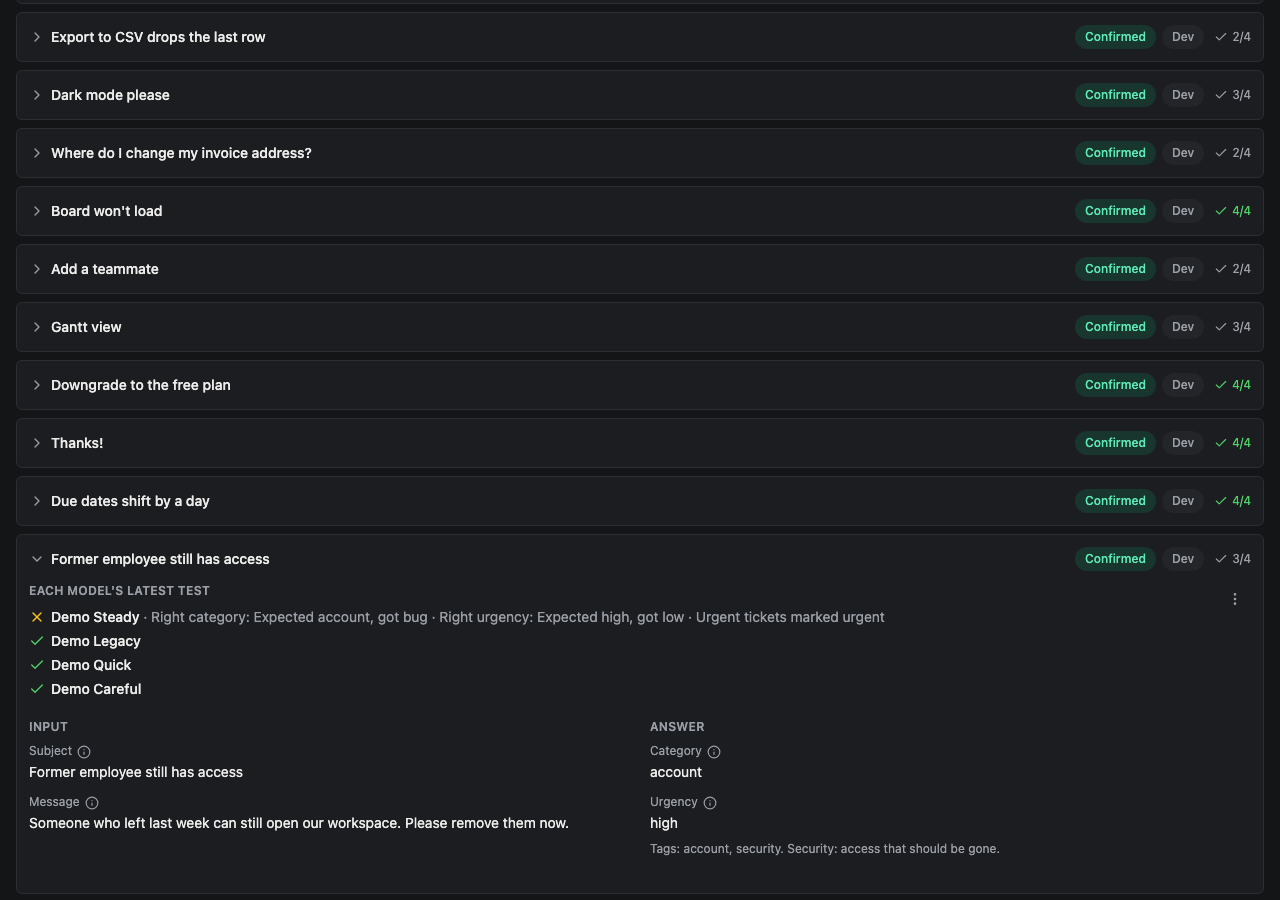
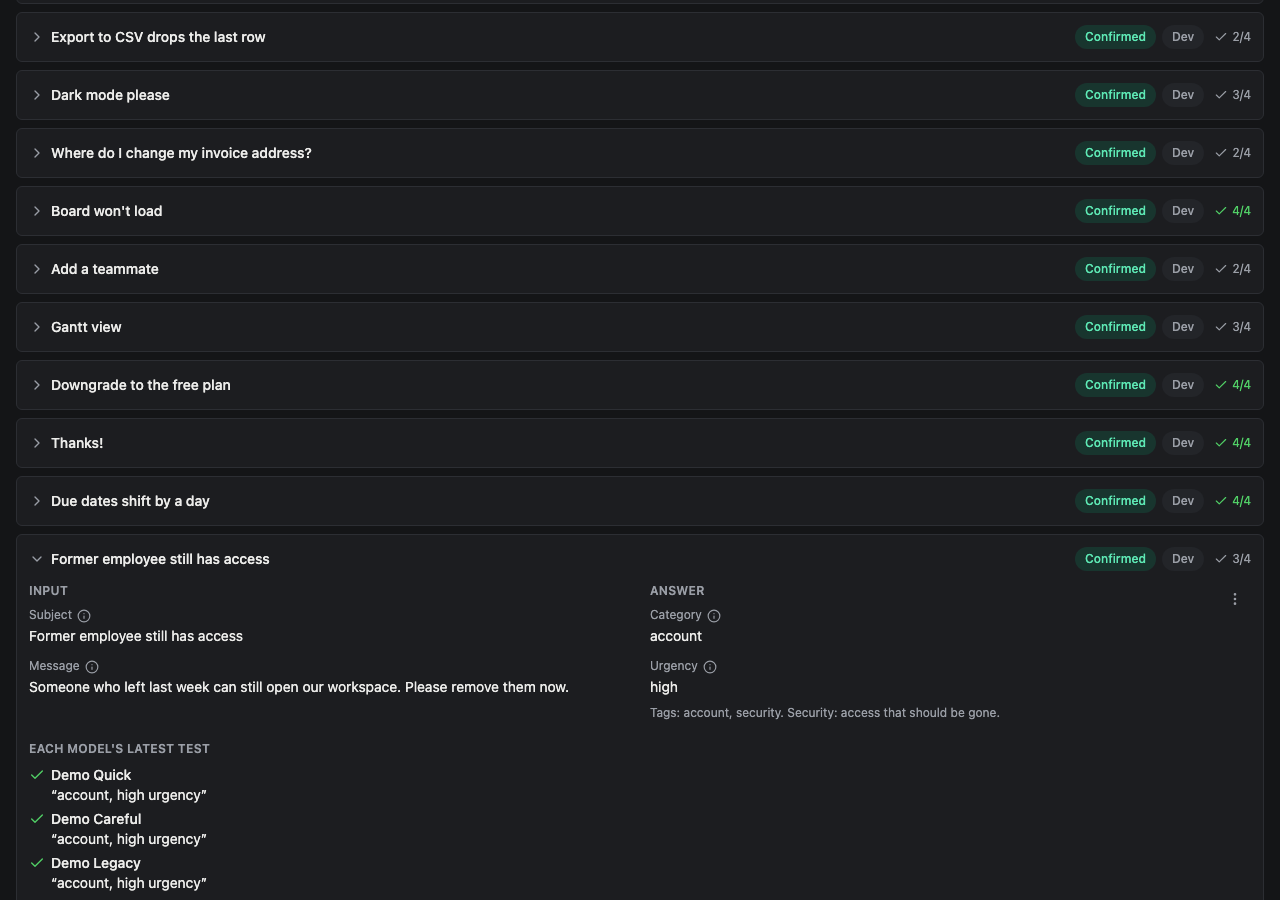
Each model's answer beside its result; green refresh button
Suite.outputLine(output) gives one model's answer as a short line,
shown under that model's latest test in the answer key, so a person can
compare what models wrote with the input and the answer. Model results
sit after the answer in both layouts. The icon button (the answer key's
refresh) has Add a case's green outline. Part of 0.17.1.

Changed region(s): [[0.3438, 0.6533, 0.7812, 0.9644], [0.0312, 0.8089, 0.4375, 0.9956], [0.0312, 0.6533, 0.4375, 0.7778]]

diff --git a/packages/core/src/react/AnswerKey.tsx b/packages/core/src/react/AnswerKey.tsx
@@ -258,7 +258,7 @@ function CaseItem({
   c: CaseRecord;
   results: {
     model: string;
-    output: { scores: unknown; error: string | null };
+    output: { scores: unknown; error: string | null; output?: unknown };
   }[];
 }) {
   const answer =
@@ -310,10 +310,72 @@ function CaseItem({
         ? "no model's latest test agrees with this answer"
         : `models split: ${right} of ${results.length} agree with this answer`,
     );
+  // What each model wrote, as the suite's short line (`outputLine`).
+  const lineOf = (output: unknown): string | null => {
+    try {
+      return suite.outputLine?.(output) ?? null;
+    } catch {
+      return null;
+    }
+  };
   const inputFallback = suite.describe ? (
     <pre className="whitespace-pre-wrap text-xs">{suite.describe(input)}</pre>
   ) : (
     <ReadableValue value={c.input} marks={marks} />
+  );
+
+  // How each model's latest test did, with what it wrote: after the
+  // answer, so a person reads the answer first.
+  const modelResults = results.length > 0 && (
+    <section className="space-y-2">
+      <h4 className="text-xs font-semibold uppercase tracking-wide text-muted">
+        Each model's latest test
+      </h4>
+      <ul className="space-y-1">
+        {results.map(({ model, output }) => {
+          const checks = (output.scores as CheckResult[] | null) ?? null;
+          const failed = checks?.filter((x) => x.pass === false) ?? [];
+          return (
+            <li key={model} className="flex items-start gap-1.5">
+              {output.error ? (
+                <CircleAlert
+                  aria-label="No answer"
+                  className="mt-0.5 h-4 w-4 shrink-0 text-bad"
+                />
+              ) : failed.length ? (
+                <X
+                  aria-label="Wrong"
+                  className="mt-0.5 h-4 w-4 shrink-0 text-warn"
+                />
+              ) : (
+                <Check
+                  aria-label="Right"
+                  className="mt-0.5 h-4 w-4 shrink-0 text-good"
+                />
+              )}
+              <span>
+                <span className="font-medium">{model}</span>
+                {output.error && (
+                  <span className="text-muted">: {output.error}</span>
+                )}
+                {failed.map((x) => (
+                  <span key={x.key} className="text-muted">
+                    {" "}
+                    · {label(x.key)}
+                    {x.note ? `: ${x.note}` : ""}
+                  </span>
+                ))}
+                {!output.error && lineOf(output.output) && (
+                  <span className="readable block">
+                    &ldquo;{lineOf(output.output)}&rdquo;
+                  </span>
+                )}
+              </span>
+            </li>
+          );
+        })}
+      </ul>
+    </section>
   );
 
   return (
@@ -453,53 +515,7 @@ function CaseItem({
           </section>
         )}
 
-        {results.length > 0 && (
-          <section className="space-y-2">
-            <h4 className="text-xs font-semibold uppercase tracking-wide text-muted">
-              Each model's latest test
-            </h4>
-            <ul className="space-y-1">
-              {results.map(({ model, output }) => {
-                const checks = (output.scores as CheckResult[] | null) ?? null;
-                const failed = checks?.filter((x) => x.pass === false) ?? [];
-                return (
-                  <li key={model} className="flex items-start gap-1.5">
-                    {output.error ? (
-                      <CircleAlert
-                        aria-label="No answer"
-                        className="mt-0.5 h-4 w-4 shrink-0 text-bad"
-                      />
-                    ) : failed.length ? (
-                      <X
-                        aria-label="Wrong"
-                        className="mt-0.5 h-4 w-4 shrink-0 text-warn"
-                      />
-                    ) : (
-                      <Check
-                        aria-label="Right"
-                        className="mt-0.5 h-4 w-4 shrink-0 text-good"
-                      />
-                    )}
-                    <span>
-                      <span className="font-medium">{model}</span>
-                      {output.error && (
-                        <span className="text-muted">: {output.error}</span>
-                      )}
-                      {failed.map((x) => (
-                        <span key={x.key} className="text-muted">
-                          {" "}
-                          · {label(x.key)}
-                          {x.note ? `: ${x.note}` : ""}
-                        </span>
-                      ))}
-                    </span>
-                  </li>
-                );
-              })}
-            </ul>
-          </section>
-        )}
-
+        {checking && modelResults}
         {checking ? (
           <section className="space-y-2">
             <h4 className="text-xs font-semibold uppercase tracking-wide text-muted">
@@ -564,6 +580,7 @@ function CaseItem({
                 )}
               </section>
             </div>
+            {modelResults}
             {!readOnly && (
               <CaseMenu
                 suite={suite.key}

diff --git a/packages/core/src/types.ts b/packages/core/src/types.ts
@@ -299,6 +299,17 @@ export type Suite<Input, Output, Label> = {
    * @param answer - The answer being checked, or null without one.
    */
   lookAt?(input: Input, answer: Label | null): LookAt[];
+  /**
+   * One model's answer as a short line, shown beside that model's latest
+   * test in the answer key ("Get a full-time admin job in local
+   * government", or "Left as typed"), so a person can compare what
+   * models wrote with the input and the answer. Shown below the answer,
+   * so a person reads the answer first. For people only.
+   *
+   * @param output - What the model returned, as stored.
+   * @returns The line, or null to show none for this output.
+   */
+  outputLine?(output: Output): string | null;
 };
 
 /** One thing to look at when checking an answer (`Suite.lookAt`). */

diff --git a/examples/next/e2e/evals.spec.ts b/examples/next/e2e/evals.spec.ts
@@ -65,6 +65,17 @@ test("testing a model fills in its score", async ({ page }) => {
   await expect(
     page.getByRole("menuitem", { name: /^Test again/ }),
   ).toContainText(/free, all \d+ reused/);
+  await page.keyboard.press("Escape");
+
+  // In the answer key, each model's answer shows beside its result.
+  const kase = page
+    .locator("details")
+    .filter({ hasText: "Former employee still has access" })
+    .first();
+  await kase.locator("summary").first().click();
+  await expect(
+    kase.getByText(/^“\w[\w ]*, (low|normal|high) urgency”$/).first(),
+  ).toBeVisible();
 });
 
 test("the board marks the live model and a retiring one with chips", async ({

diff --git a/packages/core/src/react/pieces.tsx b/packages/core/src/react/pieces.tsx
@@ -431,7 +431,7 @@ export function IconSubmit(props: IconSubmitProps) {
       type="submit"
       aria-label={props.label}
       disabled={pending}
-      className="inline-flex h-8 w-8 items-center justify-center rounded-md border border-line bg-card text-ink hover:bg-tint disabled:opacity-60"
+      className={`inline-flex h-8 w-8 items-center justify-center rounded-md disabled:opacity-60 ${QUIET_BUTTON}`}
     >
       {pending ? <Spinner /> : props.icon}
     </button>

diff --git a/examples/next/lib/suites/ticketTriage.ts b/examples/next/lib/suites/ticketTriage.ts
@@ -407,6 +407,8 @@ export const ticketTriage: Suite<Input, Output, Label> = {
   },
   title: (i) => i.subject,
   describe: (i) => `${i.subject}\n\n${i.body}`,
+  // Each model's answer, beside its result in the answer key.
+  outputLine: (o) => `${o.category.replace(/_/g, " ")}, ${o.urgency} urgency`,
   labelHelp:
     "category: billing, account, bug, feature_request, or other. urgency: low, normal, or high.",
   answerGuide: {

diff --git a/docs/answer-key.md b/docs/answer-key.md
@@ -90,9 +90,18 @@ it appears in the input. When models' latest tests disagree with the
 answer, the list says so on its own: that's the surest sign a case needs
 a closer look.
 
-Pick these by rule from the case (a dealbreaker beside what it rules
+Pick the look-at notes by rule from the case (a dealbreaker beside what it rules
 on), never from the drafted answer's own reasoning: that steers a person
 toward agreeing with the draft, which defeats the point of checking it.
+
+A suite's `outputLine` shows what each model wrote, beside its latest
+test, below the answer: "Get a full-time admin job in local
+government", or "Left as typed". It makes an answer easy to check
+against something concrete:
+
+```ts
+outputLine: (o) => o.headline ?? "Left as typed",
+```
 
 ![A drafted case open in the answer key: the ticket, the model's proposed category and urgency marked pending, and a button to confirm the answer.](screenshots/confirm-light.png "A drafted answer waiting for a person.")
 

diff --git a/CHANGELOG.md b/CHANGELOG.md
@@ -7,6 +7,17 @@ version may change an interface, and its entry says how to update.
 
 ## 0.17.1 - 2026-11-17
 
+### Added
+
+- `Suite.outputLine(output)`: one model's answer as a short line, shown
+  beside that model's latest test in the answer key, so a person can
+  compare what models wrote with the input and the answer.
+
+### Changed
+
+- The answer key's refresh button has the same green outline as **Add a
+  case**.
+
 ### Fixed
 
 - A yes-or-no value reads "Yes" or "No" instead of "true" or "false",
